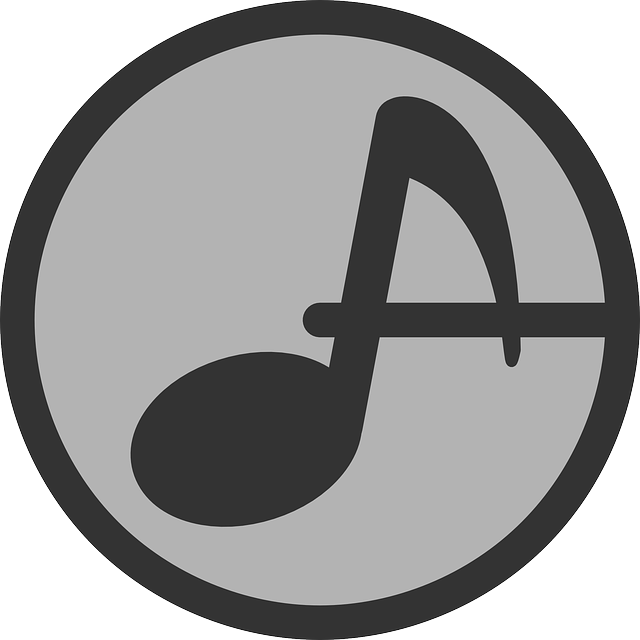
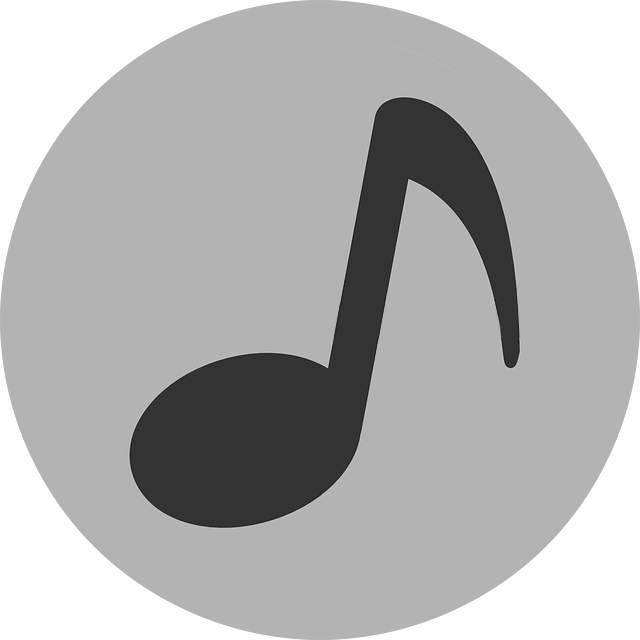
Improve animation during transition
- changed the placeholder image
- fixed the transition with IE10
- improved the animation css code

diff --git a/css/panels.css b/css/panels.css
@@ -321,12 +321,9 @@ a.btn-cmd {
 */
 .artwork {
 	margin: auto;
-	width: 300px;
-	height: 300px;
+	width: 216px;
+	height: 216px;
 	position: relative;
-	-webkit-perspective: 600px;
-	-moz-perspective: 600px;
-	perspective: 600px;
 }
 /* -- make sure to declare a default for every property that you want animated -- */
 /* -- general styles, including Y axis rotation -- */
@@ -336,27 +333,35 @@ a.btn-cmd {
 	top: 0;
 	left: 0;
 	z-index: 900;
-	width: 280px;
-	height: 280px;
-	border: 0px solid #273B4F;
-	-webkit-transform: rotateX(0deg) rotateY(0deg);
-	-moz-transform: rotateX(0deg) rotateY(0deg);
-	transform: rotateX(0deg) rotateY(0deg);
+	width: 200px;
+	height: 200px;
+  border: 8px solid #4BBE87;
+	-webkit-transform: rotateY(0deg);
+	   -moz-transform: rotateY(0deg);
+	        transform: rotateY(0deg);
   -webkit-transform-style: preserve-3d;
-	-moz-transform-style: preserve-3d;
-	transform-style: preserve-3d;
+	   -moz-transform-style: preserve-3d;
+	        transform-style: preserve-3d;
   -webkit-backface-visibility: hidden;
-	-moz-backface-visibility: hidden;
-	backface-visibility: hidden;
+	   -moz-backface-visibility: hidden;
+	        backface-visibility: hidden;
   /* -- transition is the magic sauce for animation -- */
-	-webkit-transition: all .6s ease-in-out;
-	transition: all .6s ease-in-out;
+	-webkit-transition: none .6s ease-in-out;
+	        transition: none .6s ease-in-out;
+  -webkit-transition-property: -webkit-transform; /* Safari */
+          transition-property: transform;
+  -webkit-perspective: 600px;
+	   -moz-perspective: 600px;
+	        perspective: 600px;
 }
 .artwork.flip .front {
 	z-index: 900;
   -webkit-transform: rotateY(180deg);
-	-moz-transform: rotateY(180deg);
-	transform: rotateY(180deg);
+	   -moz-transform: rotateY(180deg);
+	        transform: rotateY(180deg);
+  -webkit-perspective: 600px;
+	   -moz-perspective: 600px;
+	        perspective: 600px;
 }
 .artwork .back {
 	float: none;
@@ -364,28 +369,35 @@ a.btn-cmd {
 	top: 0;
 	left: 0;
 	z-index: 800;
-	width: 280px;
-	height: 280px;
-	border: 0px solid #000;
-	text-shadow: 1px 1px 1px rgba(0,0,0,0.6);
-  -webkit-transform: rotateY(-180deg);
-	-moz-transform: rotateY(-179deg); /* setting to 180 causes an unnatural-looking half-flip */
-	transform: rotateY(-179deg);
+	width: 200px;
+	height: 200px;
+  border: 8px solid #4BBE87;
+	-webkit-transform: rotateY(-180deg);
+	   -moz-transform: rotateY(-179deg); /* setting to 180 causes an unnatural-looking half-flip */
+	        transform: rotateY(-179deg);
   -webkit-transform-style: preserve-3d;
-	-moz-transform-style: preserve-3d;
-	transform-style: preserve-3d;
+	   -moz-transform-style: preserve-3d;
+	        transform-style: preserve-3d;
   -webkit-backface-visibility: hidden;
-	-moz-backface-visibility: hidden;
-	backface-visibility: hidden;
+	   -moz-backface-visibility: hidden;
+ 	        backface-visibility: hidden;
   /* -- transition is the magic sauce for animation -- */
-	-webkit-transition: all .6s ease-in-out;
-	transition: all .6s ease-in-out;
+	-webkit-transition: none .6s ease-in-out;
+	        transition: none .6s ease-in-out;
+  -webkit-transition-property: -webkit-transform; /* Safari */
+          transition-property: transform;
+  -webkit-perspective: 600px;
+	   -moz-perspective: 600px;
+	        perspective: 600px;
 }
 .artwork.flip .back {
 	z-index: 1000;
-	-webkit-transform: rotateX(0deg) rotateY(0deg);
-	-moz-transform: rotateX(0deg) rotateY(0deg);
-	transform: rotateX(0deg) rotateY(0deg);
+	-webkit-transform: rotateY(0deg);
+	   -moz-transform: rotateY(0deg);
+	        transform: rotateY(0deg);
+  -webkit-perspective: 600px;
+	   -moz-perspective: 600px;
+	        perspective: 600px;
 }
 /* -- cosmetics -- */
 .circle div {
@@ -400,26 +412,33 @@ div.back {
   background-size: contain; 
 }
 /* Spinning animation while retrieving artwork */
-.loading {
-  -webkit-animation: spin 0.7s infinite linear;
-  -moz-animation: spin 0.7s infinite linear;
-  -o-animation: spin 0.7s infinite linear;
-  -ms-animation: spin 0.7s infinite linear;
+div.loading {
+  -webkit-animation: spin 0.5s linear infinite;
+          animation: spin 0.5s linear infinite;
+  -webkit-animation-fill-mode: forwards;
+          animation-fill-mode: forwards;
+  -webkit-animation-timing-function: linear;
+          animation-timing-function: linear;
 }
+div.off {
+	-webkit-animation-name: none;
+		      animation-name: none;	
+}
+/* Spinning animation while retrieving artwork */
 @-webkit-keyframes spin {
-  0% { -webkit-transform: rotate(0deg);}
+  0%   { -webkit-transform: rotate(0deg);}
   100% { -webkit-transform: rotate(360deg);}
 }
 @-moz-keyframes spin {
-  0% { -moz-transform: rotate(0deg);}
+  0%   { -moz-transform: rotate(0deg);}
   100% { -moz-transform: rotate(360deg);}
 }
 @-o-keyframes spin {
-  0% { -o-transform: rotate(0deg);}
+  0%   { -o-transform: rotate(0deg);}
   100% { -o-transform: rotate(360deg);}
 }
 @-ms-keyframes spin {
-  0% { -ms-transform: rotate(0deg);}
+  0%   { -ms-transform: rotate(0deg);}
   100% { -ms-transform: rotate(360deg);}
 }
 

diff --git a/js/volumio.api.js b/js/volumio.api.js
@@ -434,26 +434,37 @@ function updateGUI(json){
     $('#currentalbum').html(json['currentalbum']);
     // render album artwork with a nice animation (only if song is changed)
     if (GUI.currentsong != json['currentsong']) {
+        // detects the face displayed
         if ($('#currentartwork').hasClass('flip')) {
-            $("#currentartwork .back").addClass('loading');          
+            var face = 'back';
+            var oppositeFace = 'front';
+            var functionName = 'removeClass';
         } else {
-            $("#currentartwork .front").addClass('loading')
+            var face = 'front';
+            var oppositeFace = 'back';
+            var functionName = 'addClass';
         }
-        
+        $("#currentartwork ."+face).css('background-image', 'url(/images/artwork/placeholder.png)');
+        $("#currentartwork ."+face).removeClass('off');
+        $("#currentartwork ."+face).addClass('loading');
+        var start = 0;
+        var duration = 0;
+        start = new Date().getTime();
         // Wait for the artwork to be loaded before starting the animation
         $('<img/>').attr('src', json['currentartwork']).on('load', function() {
-            // prevent memory leaks
+            var elapsed = new Date().getTime() - start;
+            if (elapsed < 500) {duration = 500 - elapsed;}
+            // prevents memory leaks
             $(this).remove(); 
-            if ($('#currentartwork').hasClass('flip')) {
-                $("#currentartwork .front").css('background-image', 'url('+json['currentartwork']+')');
-                $("#currentartwork .back").removeClass('loading');
-                $('#currentartwork').removeClass('flip');
-            }
-            else {
-                $("#currentartwork .back").css('background-image', 'url('+json['currentartwork']+')');
-                $("#currentartwork .front").removeClass('loading');
-                $('#currentartwork').addClass('flip');
-            }
+            $("#currentartwork ."+oppositeFace).css('background-image', 'url('+json['currentartwork']+')');
+            // Play a minimum transition even if artwork is found from browser cache
+            window.setTimeout(function(){
+               $("#currentartwork ."+face).addClass('off').delay(100).queue(function () {
+                    $(this).removeClass('loading');
+                    $('#currentartwork')[functionName]('flip');
+                    $(this).dequeue();
+                });
+            }, duration);
         });
     }
     if (json['repeat'] == 1) {

diff --git a/templates/indextpl.html b/templates/indextpl.html
@@ -7,7 +7,7 @@
 			<span id="currentsong"></span>
 			<span id="currentalbum"></span>
 			<!-- add album artwork -->
-            <div id="currentartwork" class="click artwork circle">
+            <div id="currentartwork" class="artwork circle">
 	             <div class="front"></div>
 	             <div class="back"></div>
             </div>
